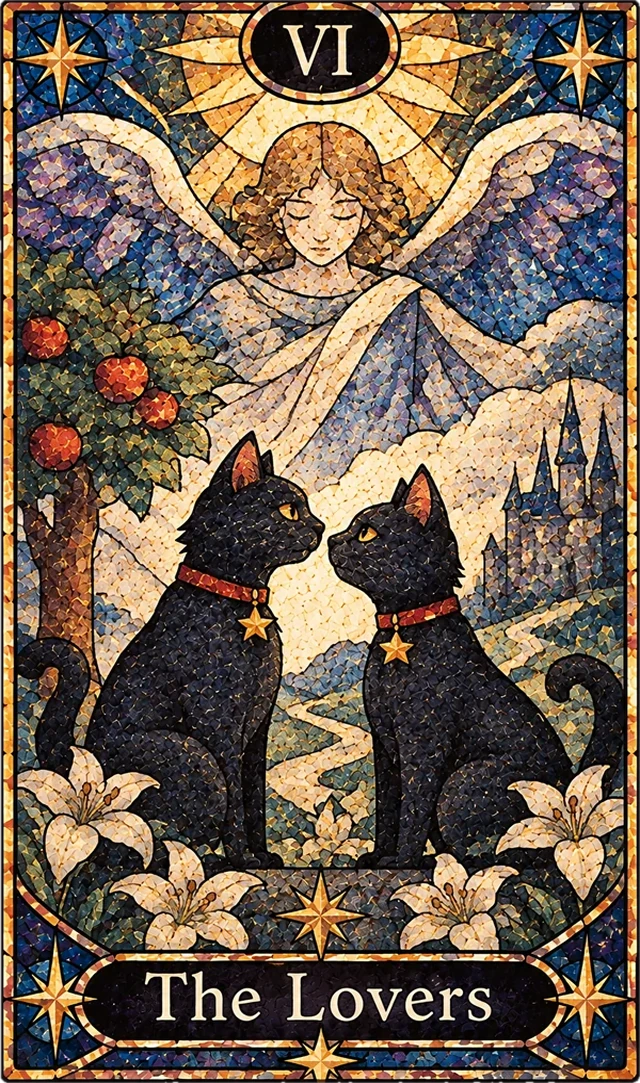
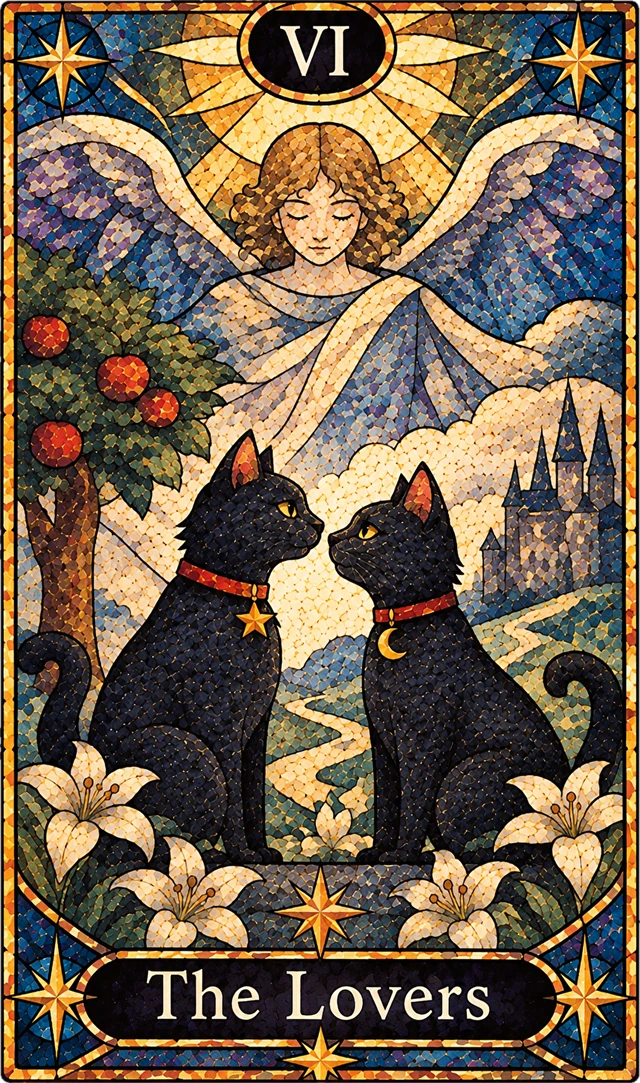
Add files via upload

diff --git a/index.html b/index.html
@@ -1,26 +1,8 @@
-<!doctype html><html lang="ja"><head><meta charset="utf-8"><meta name="viewport" content="width=device-width, initial-scale=1, viewport-fit=cover">
+<!doctype html><html><head><meta charset=utf8><meta name=viewport content="width=device-width,initial-scale=1,viewport-fit=cover"><style>:root{color-scheme:light;box-sizing:border-box;padding-top:env(safe-area-inset-top,0px);padding-bottom:env(safe-area-inset-bottom,0px)}html{scroll-padding-top:env(safe-area-inset-top,0px)}body{margin:0;padding:0;font:14px -apple-system,BlinkMacSystemFont,sans-serif;background:#fff;color:#000}img{max-width:100%}[hidden]:not([hidden=until-found i]){display:none!important}</style></head><body>
 <title>ヘキサグラム・タロット</title>
 <meta name="claude:viewport-fit-sides" content="cover">
 <link rel="preconnect" href="https://fonts.googleapis.com">
 <link rel="stylesheet" href="https://fonts.googleapis.com/css2?family=Cormorant+Garamond:ital,wght@0,500;0,600;1,500&family=Shippori+Mincho:wght@500;700&family=Zen+Kaku+Gothic+New:wght@400;500&display=swap">
-<meta name="description" content="大アルカナ22枚の黒猫タロット。今日の一枚、7枚で読み解くヘキサグラム占い、カードの性質で重ねるミニゲームが遊べます。">
-<meta name="theme-color" content="#080d1a">
-<link rel="canonical" href="https://kuro516.github.io/cat15/">
-<link rel="icon" type="image/png" href="favicon.png">
-<meta property="og:type" content="website">
-<meta property="og:site_name" content="ヘキサグラム・タロット">
-<meta property="og:locale" content="ja_JP">
-<meta property="og:url" content="https://kuro516.github.io/cat15/">
-<meta property="og:title" content="ヘキサグラム・タロット｜星空の下の、黒猫のタロット">
-<meta property="og:description" content="大アルカナ22枚で、占う・引く・遊ぶ。今日の一枚、7枚の鑑定、ミニゲーム「アルカナ・アコーディオン」。">
-<meta property="og:image" content="https://kuro516.github.io/cat15/ogp.jpg">
-<meta property="og:image:width" content="1200">
-<meta property="og:image:height" content="630">
-<meta property="og:image:alt" content="星空の下で3枚の黒猫タロットカードが扇のように並んでいる">
-<meta name="twitter:card" content="summary_large_image">
-<meta name="twitter:title" content="ヘキサグラム・タロット｜星空の下の、黒猫のタロット">
-<meta name="twitter:description" content="大アルカナ22枚で、占う・引く・遊ぶ。今日の一枚、7枚の鑑定、ミニゲーム。">
-<meta name="twitter:image" content="https://kuro516.github.io/cat15/ogp.jpg">
 <style>
 /* 配置：夜の卓上。上にヘッダー、中央に六芒星の盤面、下に避けたカードの置き場 */
 :root{
@@ -422,7 +404,7 @@ body{ background:linear-gradient(180deg,#060912 0%,#0b1426 45%,#16213a 80%,#1d2a
 .backbar{ position:sticky; bottom:0; z-index:8; display:flex; justify-content:center; padding:18px 0 calc(12px + env(safe-area-inset-bottom)); background:linear-gradient(rgba(8,13,26,0), rgba(8,13,26,.92) 45%); pointer-events:none; }
 .backbar[hidden]{ display:none; }
 .backbar .btn{ pointer-events:auto; min-width:60%; box-shadow:0 4px 16px rgba(0,0,0,.5); }
-</style></head><body>
+</style>
 <div class="sky" id="sky" aria-hidden="true"></div>
 <div class="wrap">
   <div class="top"><span class="brand">HEXAGRAM TAROT</span><span id="topRight"></span></div>
@@ -2301,4 +2283,6 @@ show("home");
 /* テスト用に一部を公開（画面には影響しません） */
 window.__tarot = { renderImage, buildText, S, buildReading, buildSummaryParas, closeLine, placeholderSVG };
 })();
-</script></body></html>
+</script>
+
+</body></html>
